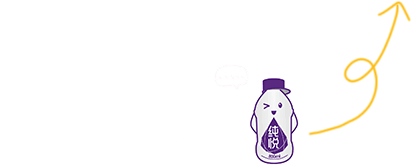
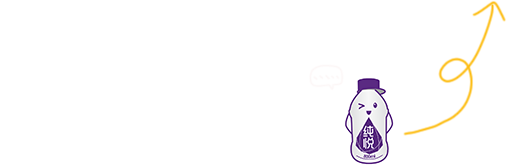
纯悦展厅互动

Changed region(s): [[0.5825, 0.0, 1.0, 1.0]]

diff --git a/public/res/dew/css/index.css b/public/res/dew/css/index.css
@@ -930,7 +930,7 @@ section {
   position: absolute;
   right: 0.94666667rem;
   top: 0.53333333rem;
-  width: 5.49333333rem;
+  width: 6.76rem;
   height: 2.2rem;
 }
 .ranking {

diff --git a/public/res/dew/css/index.less b/public/res/dew/css/index.less
@@ -643,7 +643,7 @@ section{
     position: absolute;
     right: 71/@r;
     top: 40/@r;
-    width: 412/@r;
+    width: 507/@r;
     height: 165/@r;
   }
 }
